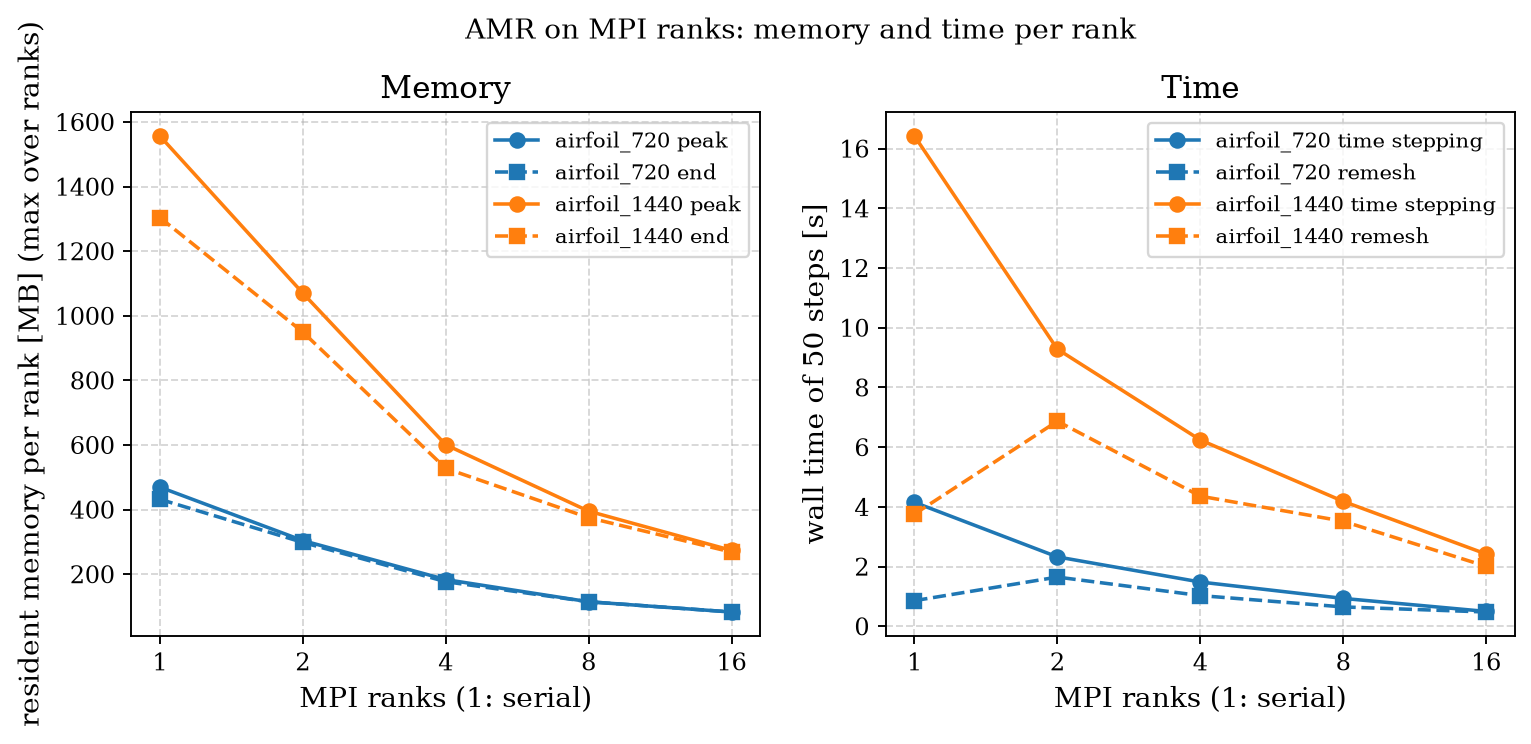
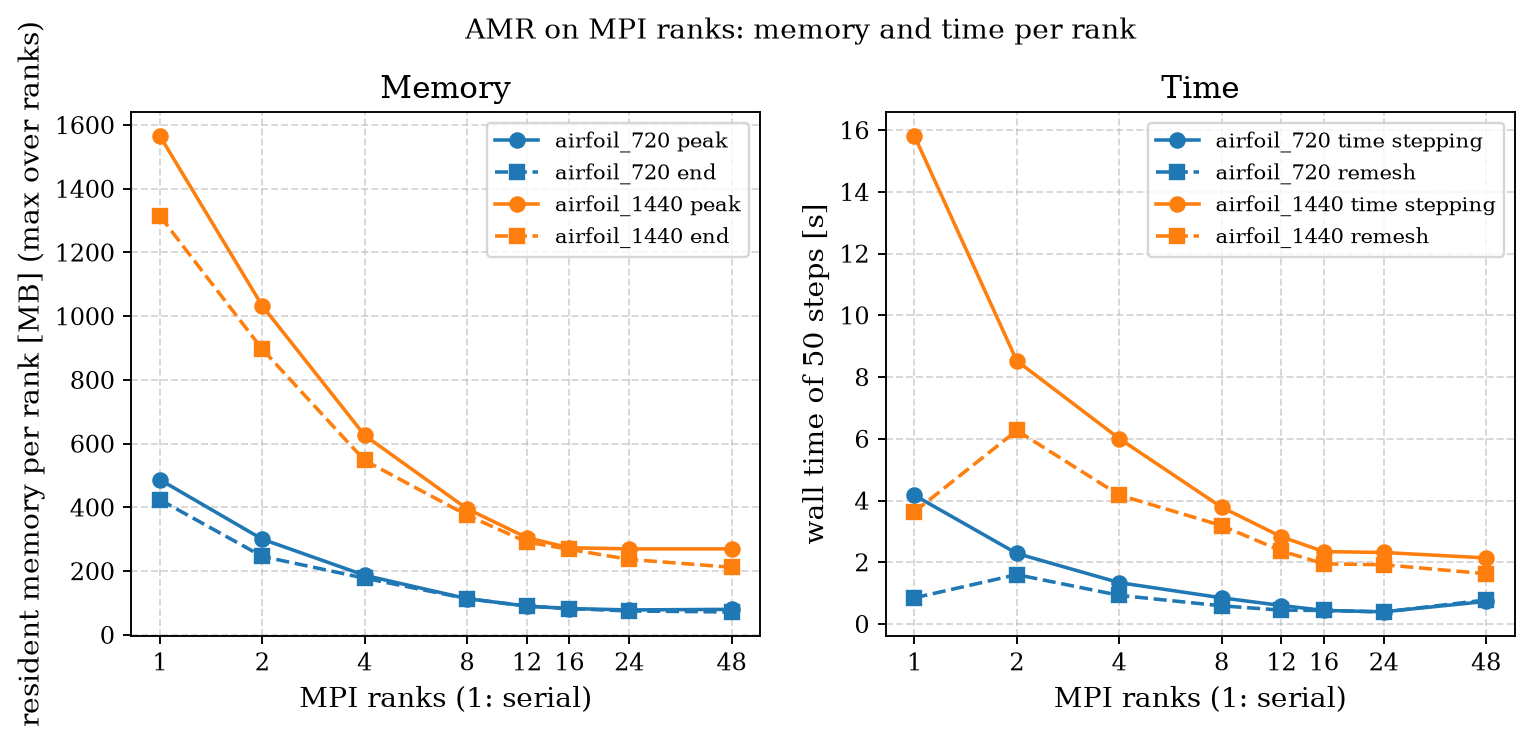
Docs: numbers and figures from the second workstation batch (current sources, 80-cell sphere to t = 60) [skip ci]

diff --git a/docs/source/modules/AMR.md b/docs/source/modules/AMR.md
@@ -38,7 +38,7 @@ parallelises less well, so the comparison that means anything is at **the same f
 | same finest mesh, 16 OpenMP threads | uniform cells | adaptive leaves | adaptive time loop / uniform |
 |---|---:|---:|---:|
 | 2-D airfoil, Re 1000, 2 levels | 4.1 M | 268 k (6.5 %) | 0.07 (**15× faster**) |
-| 3-D sphere, Re 20, 2 levels | 432 k | 76 k (18 %) | 0.26-0.28 (**3.6-3.8× faster**) |
+| 3-D sphere, Re 20, 2 levels | 432 k | 76 k (18 %) | 0.27-0.30 (**3.4-3.7× faster**) |
 
 The same solution costs a fraction of the uniform time, on one thread and on 16, and the fraction shrinks as the levels deepen. The sections below
 describe the engine; the last one measures it.
@@ -79,7 +79,7 @@ Against WENO3-Z on the same adaptive mesh (`cases/validation/amr/weno5_amr.py`, 
 | Shu-Osher, base 200 + 1 level | $L_1$ density error (reference: uniform WENO5-Z, 3200 cells) | 7.38e-2 | 2.99e-2 | 0.40 |
 | cavity Re 400, base 32 + 1 level | RMS of centreline $u$ / $v$ against the tabulated values | 4.23e-3 / 4.40e-3 | 3.65e-3 / 3.53e-3 | 0.86 / 0.80 |
 | cylinder Re 40, 20 finest cells per diameter | $C_d$ (uniform 400×200: 1.9047 / 1.9041) | 1.9424 | 1.8922 | 0.974 |
-| cost per step, 1 thread / 16 threads / 4 ranks | wall time | 61.0 / 11.1 / 20.6 ms | 94.5 / 13.3 / 29.5 ms | 1.55 / 1.19 / 1.44 |
+| cost per step, 1 thread / 16 threads / 4 ranks | wall time | 40.4 / 9.3 / 15.6 ms | 50.8 / 10.3 / 17.8 ms | 1.26 / 1.11 / 1.14 |
 
 The bands fixed before the runs are met (vortex: not above WENO3-Z; the tubes: within 5 % of WENO3-Z and no new over- or undershoot above $10^{-3}$ of the
 jump); the cavity, the cylinder and the cost are reported. The gain is largest where smooth structure is carried through the fine leaves (Shu-Osher) and
@@ -229,7 +229,7 @@ by the owner of the fine leaf.
 * The result is identical to the serial run for any number of ranks (1 to 7 are checked in
 `amr_mpi.py --check`, on cases with remeshing, an immersed body, viscosity, a non-reflecting outlet and a time-dependent source).
 
-**Known limits.** The indicator, the flags and the state of the new leaves are local, each rank builds its share of the mesh and the engine tables directly from the leaves near its own (a wider reach is tried if a face reads what the share lacks), and the first mesh is adapted the same way, so no rank builds the engine of the whole mesh or adapts a mesh with faces (the base mesh itself is constructed once at setup, and every rank keeps the leaves and lookups of the whole topology). No rank holds the topology of the whole mesh: the ranks fetch the leaves around their own from the owners, settle the ripple and the merges between them and migrate the new leaves; same result bit for bit). The memory per rank at the end of the run (the largest over the ranks) falls from 432 MB serial to 298 / 177 / 115 / 83 MB on 2 / 4 / 8 / 16 ranks (peak 470 MB serial, 304 / 183 / 115 / 83 MB), and the wall time of the 720×360 airfoil is 4.9 s serial and 3.8 / 2.4 / 1.5 / 0.95 s (table below); on the 1.06 M-leaf airfoil (1440×720) the memory per rank at the end falls from 1304 MB to 950 / 528 / 375 / 268 MB (peak 1557 MB serial, 1070 / 601 / 395 / 274 MB) and the wall time goes from 20.2 s to 16.2 / 10.6 / 7.7 / 4.4 s; on 24 and 48 ranks the peak stays at 270 MB (the end falls to 237 and 212 MB). The peak is the remesh and the first share. A checkpoint is written by rank 0 as the leaves of each rank reach it, one rank after the other: it holds its own leaves and those of one other rank, never the whole state. The whole mesh is gathered on rank 0 only for the post-processing outputs (probes, samples, averages) and for `dump_state`. On one node
+**Known limits.** The indicator, the flags and the state of the new leaves are local, each rank builds its share of the mesh and the engine tables directly from the leaves near its own (a wider reach is tried if a face reads what the share lacks), and the first mesh is adapted the same way, so no rank builds the engine of the whole mesh or adapts a mesh with faces (the base mesh itself is constructed once at setup, and every rank keeps the leaves and lookups of the whole topology). No rank holds the topology of the whole mesh: the ranks fetch the leaves around their own from the owners, settle the ripple and the merges between them and migrate the new leaves; same result bit for bit). The memory per rank at the end of the run (the largest over the ranks) falls from 424 MB serial to 246 / 178 / 114 / 83 MB on 2 / 4 / 8 / 16 ranks (peak 487 MB serial, 300 / 187 / 114 / 83 MB), and the wall time of the 720×360 airfoil is 5.0 s serial and 3.9 / 2.3 / 1.4 / 0.88 s; on the 1.06 M-leaf airfoil (1440×720) the memory per rank at the end falls from 1315 MB to 897 / 548 / 376 / 268 MB (peak 1566 MB serial, 1033 / 626 / 396 / 273 MB) and the wall time of that memory study (a separate run) goes from 19.5 s to 14.8 / 10.2 / 7.0 / 4.3 s; on 24 and 48 ranks the peak stays at 270 MB (the end falls to 237 and 212 MB). The peak is the remesh and the first share. A checkpoint is written by rank 0 as the leaves of each rank reach it, one rank after the other: it holds its own leaves and those of one other rank, never the whole state. The whole mesh is gathered on rank 0 only for the post-processing outputs (probes, samples, averages) and for `dump_state`. On one node
 OpenMP is the better choice; MPI gives the same result for any rank count and a moderate speed-up. A checkpoint on several ranks is written rank after rank (an `NpzWriter` with reserved entries, zip64 for 4 GB and more), so no rank holds the whole state;
 the final `dump_state` gathers the leaves on rank 0 (a transient copy of the whole state); a restart cuts each rank's share from the leaf list of the checkpoint (three integer arrays) and reads only the state rows of its own leaves and their halo (`NpzFile`), so no rank holds the whole state or mesh; a hot start reads the whole source field.
 At the end of a run the solver prints the resident memory of the ranks (after setup, after the initial adaptation, at the end,
@@ -255,8 +255,8 @@ over uniform cells and time over uniform time for the 2-D airfoil and the 3-D oc
 |---|---:|---:|
 | uniform cells at the finest resolution | 4 147 200 | 432 000 |
 | adaptive leaves at the end | 268 299 (6.5 %) | 76 120 (18 %) |
-| time loop, adaptive / uniform, 1 thread | 5.0 s / 104.6 s: **21× faster** | 0.32-0.38 (steady state): **2.6-3.1× faster** |
-| time loop, adaptive / uniform, 16 threads | 0.9 s / 13.6 s: **15× faster** | 0.26-0.28 (steady state): **3.6-3.8× faster** |
+| time loop, adaptive / uniform, 1 thread | 5.0 s / 104.6 s: **21× faster** | 0.34-0.42 (steady state): **2.4-2.9× faster** |
+| time loop, adaptive / uniform, 16 threads | 0.9 s / 13.6 s: **15× faster** | 0.27-0.30 (steady state): **3.4-3.7× faster** |
 | difference of the result | loads of the fine mesh (see the [airfoil]({{root}}cases/airfoil.html) page) | $C_d$ within 0.02-0.13 % (Re 20 and 100, see the [sphere]({{root}}cases/sphere.html) page) |
 
 Two things make the adaptive solver win by more than the cell count would suggest at first sight, and one limits the gain:
@@ -286,8 +286,8 @@ the uniform solver gains 7.7× on 16 threads and its time stays 15 times higher.
 under 4096 items run on one thread), the remesh scales less than the stepping, and 50 steps are short (the remesh and the setup are a fixed part of them, which a long run
 amortises less than it looks: the remesh stays 17-25 % of the time loop on threads, and 41-49 % on ranks). The remesh of a rank's share costs 0.5-1.6 s against 0.2-0.5 s on threads,
 while the stepping alone scales on ranks as well as on threads, so MPI is for runs that do not fit in the memory of one node, or that go beyond it.
-The larger airfoil (1440×720 base mesh, 1.06 M leaves, 50 steps) takes 20.2 s serial, 3.7 s on 16 threads (5.5×) and 4.4 s on 16 ranks (4.5×), and its best time on MPI is 3.9 s on 48 ranks (5.1×);
-with WENO5-Z the same run takes 67.0 s serial and 6.0 s on 48 ranks (11.2×), and the remesh is a smaller share of it (30 % against 44 % for MUSCL on 48 ranks). The scaling over 1 to 48 workers of this and
+The larger airfoil (1440×720 base mesh, 1.06 M leaves, 50 steps) takes 19.2 s serial, 3.5 s on 16 threads (5.5×) and 4.3 s on 16 ranks (4.5×), and its best time on MPI is 3.7 s on 48 ranks (5.2×);
+with WENO5-Z the same run takes 37.5 s serial and 4.9 s on 48 ranks (7.7×), and the remesh is a smaller share of it (34 % against 43 % for MUSCL on 48 ranks). The scaling over 1 to 48 workers of this and
 of the other adaptive and uniform cases is on the [Performance]({{root}}guide/performance.html#scaling-on-a-24-core-workstation) page.
 
 <figure style="margin:1em 0;">
@@ -298,9 +298,9 @@ for the time stepping alone and with the remesh. Right: time of the uniform solv
 same finest mesh over the time of the adaptive run, on the same number of threads. Every final state is bit for bit the serial one.</figcaption>
 </figure>
 
-The 3-D sphere (octree, 76 k leaves, Re 20, 200 steps from the steady state) takes 30.5 s per unit of physical time on one thread and 9.5 / 7.1 / 4.9 s on 4 / 8 / 16 threads
-(6.2× on 16, no further gain on 24 and 48: 4.9 s); on MPI ranks 18.9 / 11.3 / 7.4 / 5.1 / 4.9 s on 2 / 4 / 8 / 24 / 48 ranks, with the remesh at 7 / 11 / 16 / 30 / 39 % of the time.
-Memory is 109 MB at the end (142 MB at the peak) in the process of 16 threads; per rank 63 MB (peak 78 MB) on 8 ranks, 60 MB (76 MB) on 24 and 65 MB (76 MB) on 48.
+The 3-D sphere (octree, 76 k leaves, Re 20, 200 steps from the steady state) takes 29.6 s per unit of physical time on one thread and 9.4 / 7.1 / 4.9 s on 4 / 8 / 16 threads
+(6.0× on 16, no further gain on 24 and 48: 4.9 and 4.8 s); on MPI ranks 19.2 / 11.7 / 7.5 / 5.0 / 5.1 s on 2 / 4 / 8 / 24 / 48 ranks, with the remesh at 8 / 11 / 16 / 30 / 38 % of the time.
+Memory is 111 MB at the end (142 MB at the peak) in the process of 16 threads; per rank 63 MB (peak 77 MB) on 8 ranks, 59 MB (76 MB) on 24 and 65 MB (76 MB) on 48.
 
 <figure style="margin:1em 0;">
 <img src="{{root}}img/amr_memory.png" style="width:100%">

diff --git a/docs/source/guide/performance.md b/docs/source/guide/performance.md
@@ -90,23 +90,21 @@ identical to the serial one (see [MPIDecomposition]({{root}}modules/MPIDecomposi
 
 ## Cost of the reconstructions
 
-These runs were made before the vector and fused WENO kernels above; those kernels give the same bits and are faster, so the WENO rows are upper bounds.
-
 Wall time of the whole run on the 24-core workstation of the next section (gcc, OpenMP, one process, 44 threads), cases as in the validation studies: the 2-D isentropic vortex
 over one period (`nx = ny = 256`, 65 536 cells) and the 3-D Taylor-Green vortex at Re 1600 on $64^3$ to $t = 20$.
 MUSCL uses the MC limiter with SSP-RK2, the WENO schemes SSP-RK3, CFL 0.5.
 
 | Case | scheme | 1 thread | 44 threads | 44 threads vs 1 | $L_2$ density error / peak $\varepsilon$ |
 |---|---|---:|---:|---:|---|
-| vortex $256^2$ | MUSCL (MC) | 20.8 s | 2.3 s | 9.1× | $6.4\cdot10^{-5}$ |
-| vortex $256^2$ | `weno3` | 69.5 s | 10.2 s | 6.8× | $4.8\cdot10^{-5}$ |
-| vortex $256^2$ | `weno5` | 123.7 s | 31.1 s | 4.0× | $2.1\cdot10^{-6}$ |
-| Taylor-Green $64^3$ | MUSCL (MC) | 424 s | 90 s | 4.7× | 0.01133 |
-| Taylor-Green $64^3$ | `weno3` | 1036 s | 194 s | 5.3× | 0.01091 |
-| Taylor-Green $64^3$ | `weno5` | 1641 s | 218 s | 7.5× | 0.01267 |
+| vortex $256^2$ | MUSCL (MC) | 21.4 s | 2.6 s | 8.4× | $6.4\cdot10^{-5}$ |
+| vortex $256^2$ | `weno3` | 45.3 s | 4.5 s | 10.0× | $4.8\cdot10^{-5}$ |
+| vortex $256^2$ | `weno5` | 64.0 s | 6.0 s | 10.6× | $2.1\cdot10^{-6}$ |
+| Taylor-Green $64^3$ | MUSCL (MC) | 470 s | 101 s | 4.7× | 0.01133 |
+| Taylor-Green $64^3$ | `weno3` | 834 s | 155 s | 5.4× | 0.01091 |
+| Taylor-Green $64^3$ | `weno5` | 1053 s | 188 s | 5.6× | 0.01267 |
 
-`weno3` costs about 2.4 to 3.3 times and `weno5` about 4 to 6 times the MUSCL run on one thread (the 2-D mesh is small, and `weno5` scales least on it). The error is what the extra cost buys: on the smooth vortex `weno5` reaches at
-$128^2$ (15.4 s on one thread) an error below that of MUSCL at $256^2$ (20.8 s), so for a given error it is the cheaper scheme there;
+`weno3` costs about 1.8 to 2.1 times and `weno5` about 2.2 to 3.0 times the MUSCL run on one thread (on the 2-D mesh of 65 536 cells the three schemes gain 8 to 11 times on 44 threads, on the 3-D mesh 4.7 to 5.6 times). The error is what the extra cost buys: on the smooth vortex `weno5` reaches at
+$128^2$ (8.1 s on one thread) an error below that of MUSCL at $256^2$ (21.4 s), so for a given error it is the cheaper scheme there;
 the Taylor-Green reference peak is 0.0127. The thread count never changes the result: all runs above are bitwise equal on 1 and 44 threads.
 
 ## Scaling on a 24-core workstation
@@ -121,28 +119,28 @@ physical cores up to 24, and the counts above 24 use both hardware threads of a 
 
 | Case | 1 rank | best MPI | best OpenMP | best ranks x threads |
 |---|---:|---:|---:|---:|
-| uniform 2-D MUSCL $4096^2$ | 81.2 s | 9.7x (48 ranks) | 8.9x (48 threads) | 10.9x (8 x 6) |
-| uniform 2-D `weno3` $2048^2$ | 57.1 s | 7.7x (48 ranks) | 7.7x (48 threads) | 8.3x (8 x 6) |
-| uniform 3-D MUSCL $256^3$ | 58.0 s | 6.9x (24 ranks) | 5.0x (48 threads) | 8.1x (12 x 4) |
-| AMR airfoil, MUSCL | 20.1 s | 5.1x (48 ranks) | 5.5x (16 threads) | 4.8x (24 x 2) |
-| AMR airfoil, `weno5` | 67.0 s | 11.2x (48 ranks) | 10.6x (48 threads) | 10.3x (24 x 2) |
-| AMR octree sphere | 4.75 s | 2.5x (16 ranks) | 4.1x (24 threads) | 1.9x (12 x 2) |
+| uniform 2-D MUSCL $4096^2$ | 89.1 s | 10.1x (48 ranks) | 9.6x (48 threads) | 11.8x (6 x 8) |
+| uniform 2-D `weno3` $2048^2$ | 42.7 s | 10.8x (48 ranks) | 11.3x (48 threads) | 12.3x (4 x 12) |
+| uniform 3-D MUSCL $256^3$ | 55.6 s | 7.3x (16 ranks) | 5.4x (16 threads) | 8.1x (12 x 4) |
+| AMR airfoil, MUSCL | 19.2 s | 5.2x (48 ranks) | 5.5x (48 threads) | 4.8x (24 x 2) |
+| AMR airfoil, `weno5` | 37.5 s | 7.7x (48 ranks) | 7.4x (48 threads) | 7.1x (24 x 2) |
+| AMR octree sphere | 4.54 s | 2.5x (16 ranks) | 3.9x (16 threads) | 1.9x (12 x 2) |
 
 <figure>
 <img src="{{root}}img/workstation_scaling.png" alt="Strong scaling on MPI ranks, OpenMP threads and ranks x threads">
 <figcaption>Speed-up (top) and parallel efficiency (bottom) of the six cases on MPI ranks, OpenMP threads and ranks x threads (triangles, at the number of ranks). The grey band marks the counts above the 24 physical cores.</figcaption>
 </figure>
 
-* **The uniform cases stop at 7 to 11 times the single-core speed**, whatever the mix of ranks and threads, and gain little past 16 to 24 workers: the same ceiling for MPI and OpenMP,
-  as expected of passes over the whole array that are limited by the memory of the node. The hybrid runs (8 ranks of 6 threads, 12 of 4) are 7 to 17 % faster than the best pure mode on the uniform meshes.
-* **MPI against OpenMP** is close on the uniform cases (ranks ahead on the 3-D mesh, 6.9x against 5.0x). On the adaptive meshes OpenMP is ahead up to 16 workers, and the remesh grows with the ranks:
-  on the octree sphere 16 ranks take 1.87 s with 1.28 s in the remesh, 48 ranks take 3.1 s with 2.6 s in it, and 24 threads take 1.16 s. Use MPI to go beyond one node; on one node prefer threads, or a few ranks of several threads.
-* **`weno5` scales better than MUSCL** (11.2x against 5.1x on the AMR airfoil): the larger arithmetic cost per cell hides the memory traffic and the remesh.
+* **The uniform cases stop at 7 to 12 times the single-core speed**, whatever the mix of ranks and threads, and gain little past 16 to 24 workers: the same ceiling for MPI and OpenMP,
+  as expected of passes over the whole array that are limited by the memory of the node. The hybrid runs (6 ranks of 8 threads, 4 of 12, 12 of 4) are 8 to 17 % faster than the best pure mode on the uniform meshes.
+* **MPI against OpenMP** is close on the uniform cases (ranks ahead on the 3-D mesh, 7.3x against 5.4x on 16 workers). On the adaptive meshes OpenMP is ahead up to 16 workers, and the remesh grows with the ranks:
+  on the octree sphere 16 ranks take 1.79 s with 1.23 s in the remesh, 48 ranks take 2.9 s with 2.4 s in it, and 16 threads take 1.16 s. Use MPI to go beyond one node; on one node prefer threads, or a few ranks of several threads.
+* **`weno5` scales better than MUSCL on the adaptive airfoil** (7.7x against 5.2x on 48 ranks): the larger arithmetic cost per cell hides part of the remesh (34 % of the time loop against 43 % for MUSCL on 48 ranks). On the uniform meshes the schemes differ little (10.1x for MUSCL and 10.8x for `weno3` on 48 ranks).
 * A mesh of a few thousand cells gains nothing from threads: loops under 4096 items run on one thread, so the fork/join of a longer loop would cost more than the work; MPI strips or one thread suit such cases.
 * The results are bitwise equal for every rank and thread count; only the time changes.
 
-The weak scaling keeps $1024\times512$ cells per rank (viscous Taylor-Green vortex, MUSCL, 40 steps): the time grows from 2.7 s on one rank to 3.5 s on 4, 5.6 s on 16 and 12.3 s on 48, an efficiency of 0.77, 0.49 and 0.22;
-threads give 0.77, 0.49 and 0.19.
+The weak scaling keeps $1024\times512$ cells per rank (viscous Taylor-Green vortex, MUSCL, 40 steps): the time grows from 2.6 s on one rank to 3.4 s on 4, 4.7 s on 16 and 11.6 s on 48, an efficiency of 0.78, 0.55 and 0.23;
+threads give 0.78, 0.53 and 0.20.
 
 <figure>
 <img src="{{root}}img/workstation_weak_scaling.png" alt="Weak scaling efficiency on MPI ranks and OpenMP threads">

diff --git a/docs/source/cases/sphere.md b/docs/source/cases/sphere.md
@@ -17,6 +17,7 @@ between two meshes.
 
 ```powershell
 python cases\validation\features\ibm_sphere.py --docs      # 10 and 20 cells per diameter
+python cases\validation\amr\octree_q8.py long              # 80 cells per diameter on the octree, to t = 60 (hours)
 ```
 
 The study writes its own case file (`results/validation/ibm_sphere/`). The showcase case `cases/ibm_sphere` (`fenice --case "IBM Sphere"`, also in the GUI) is the Re = 100 flow on the octree, 20 cells per diameter, snapshots every 0.5.
@@ -38,6 +39,23 @@ steady and symmetric.</figcaption>
 * The drag still moves upward with refinement, by 1.5 %. Two meshes are not a convergence proof: a third mesh would be needed to
   say where it is going. The study's band (a change of at most 3 %) is a regression guard set after the run.
 * The serial and distributed runs of the sphere agree bit for bit (`ibm_ghost.py --check`, 2 to 7 ranks).
+
+### Finer meshes on the octree
+
+The octree reaches finest cell sizes that the uniform solver cannot afford here (80 cells per diameter would be 28 million cells). Workstation, Re 20 (the 80-cell run on 48 threads):
+
+| finest cells / D | base, levels | leaves at the end | run to | $C_d$ at $t = 30$ | time loop |
+|---:|---|---:|---:|---:|---:|
+| 20 | 5, 2 | 76 120 | 30 | 3.5124 | 870 s |
+| 40 | 10, 2 | 283 544 | 30 | 3.5456 | 10 980 s |
+| 80 | 10, 3 | 913 236 | 60 | 3.5598 | 28 761 s (66 085 steps) |
+
+The 80-cell run was continued to $t = 60$, where $C_d = 3.5517$; its peak memory is 1.9 GB.
+
+* Over the three meshes at $t = 30$ the observed order is 1.23, far from the formal 2, so $F_s = 3$: fine-grid GCI 0.9 %, extrapolated $C_d$ 3.570.
+* The finest run is **not settled at $t = 30$**: its drag falls by 0.0027 (0.08 %) every 10 time units, 3.5598 at $t = 30$, 3.5571 at 40, 3.5544 at 50 and 3.5517 at 60, with no sign of slowing,
+  so the 0.23 % between $t = 30$ and $t = 60$ is as large as the GCI above. The two coarser runs stop at $t = 30$ and may drift in the same way, so the
+  extrapolated value is indicative; a longer run would be needed to say where the drag at 80 cells per diameter settles.
 
 On the adaptive octree (`cases/validation/amr/octree_q8.py`) the same sphere at an equal finest resolution of 20 cells per diameter gives $C_d$ within about 0.1 % of the uniform solver (Re 20 and 100), in 0.3-0.5 of the time (whole runs on 16 threads) and with 76 k leaves against 432 k cells; see [AMR]({{root}}modules/AMR.html).
 

diff --git a/docs/source/cases/manufactured-solution.md b/docs/source/cases/manufactured-solution.md
@@ -388,11 +388,12 @@ of the uniform base mesh.
   error made at the seam from the error transported), and WENO3-Z shows it more than MUSCL because its own smooth error is smaller.
   After the first run the ratio to the uniform base mesh was made a reported column and not a failure of the study; the decision was
   taken after the result. Tables: `results/validation/mms_amr_weno/mms_amr_weno.md` and `mms_amr_weno_regions.md`.
-* **WENO5-Z** (six cells where they are leaves of the face's level, the WENO3-Z stencil at the seam; grids 16→32→64). $L_2$ orders
-  1.84, 1.71 (Navier-Stokes) and 1.97, 1.99 (Euler); $L_\infty$ 1.75, 1.13 (Euler) and 1.48, **0.68** (Navier-Stokes, pressure), below
-  its band on these grids already: the smooth error is smaller, so the seam shows in the maximum one grid earlier than for the other two
-  schemes. The finest $L_2$ density error is $6.3\cdot10^{-4}$ against $8.1\cdot10^{-4}$ for WENO3-Z on the same mesh, and about three
-  times that of the uniform WENO5-Z run on $n$ cells. The row is kept with a floor of 0.5 (decided after the result; the band is not moved).
+* **WENO5-Z** (six cells where they are leaves of the face's level, the WENO3-Z stencil at the seam; grids 16→32→64→128). $L_2$ orders
+  1.84, 1.71, **1.26** (Navier-Stokes) and 1.86, 2.11, 1.56 (Euler); $L_\infty$ 1.25, 1.17, **0.72** (Navier-Stokes, density) and 0.68, 1.19,
+  **0.59** (Euler, velocity). The $L_2$ order of the finest pair of the Navier-Stokes solution is below its band, and the $L_\infty$ orders are below
+  theirs on the finest pair: the smooth error is smaller, so the seam shows in the maximum earlier than for the other two schemes. The finest $L_2$
+  density error is $2.6\cdot10^{-4}$ against $2.8\cdot10^{-4}$ for WENO3-Z and for MUSCL on the same mesh, so the fifth-order stencil buys nothing there, and
+  3 to 5 times that of the uniform WENO5-Z run on $n$ cells. The $L_\infty$ rows are kept with a floor of 0.5 (decided after the result; the band is not moved).
 
 ## WENO-Z reconstruction on the periodic cases
 

diff --git a/docs/source/guide/validation.md b/docs/source/guide/validation.md
@@ -54,7 +54,7 @@ accuracy are measured, not estimated.
 | `stress_shocks.py` | strong-shock robustness: pressure ratio 1000, vacuum, Mach 10-100, Mach 10 cylinder, odd-even test, also with `flux_quadrature = fourth` ([page]({{root}}guide/studies.html)) |
 | `mms_weno.py` | the periodic manufactured solutions (Euler 2-D, Navier-Stokes 2-D / 3-D) with WENO3-Z and WENO5-Z: observed orders, bands fixed beforehand, WENO3-Z reported above the band ([page]({{root}}cases/manufactured-solution.html)) |
 | `mms_time_weno.py` | time order of the unsteady manufactured solution with WENO3-Z and WENO5-Z (SSP-RK3); the default-epsilon WENO5-Z row is reported, not banded ([page]({{root}}cases/manufactured-solution.html)) |
-| `mms_amr_weno.py` | periodic manufactured solutions on an adaptive mesh with a static refined square (interior level jumps and corners), WENO3-Z, WENO5-Z and MUSCL; `--full` adds the grid 128, where the $L_\infty$ order falls below its band ([page]({{root}}cases/manufactured-solution.html)) |
+| `mms_amr_weno.py` | periodic manufactured solutions on an adaptive mesh with a static refined square (interior level jumps and corners), WENO3-Z, WENO5-Z and MUSCL; `--full` adds the grid 128, where most of the $L_\infty$ orders and the WENO5-Z $L_2$ order of the Navier-Stokes solution fall below their bands ([page]({{root}}cases/manufactured-solution.html)) |
 | `mms_boundary.py` | order of the manufactured solutions with walls / outflow (Euler and Navier-Stokes) per reconstruction, with `--boundary-order 1` or 2; the tables are committed next to it ([page]({{root}}cases/manufactured-solution.html)) |
 | `mms_amr_boundary.py` | the same solutions on an adaptive mesh with a static refined region (`amr_force_box`) whose seams meet the walls, boundary orders 1 and 2 ([page]({{root}}cases/manufactured-solution.html)); the table is committed next to it |
 | `ibm_wedge.py` | Mach 2 flow along a 10 degree wedge against the exact oblique shock (order 3.6), and the curvature variant on a flat wall ([page]({{root}}modules/Physics.html)) |

diff --git a/README.md b/README.md
@@ -161,7 +161,7 @@ conditions, so adding a case needs no C++ and no recompilation. The shipped case
 
 Adaptive mesh refinement is judged by the time to a given error, not by the cost per step. On the
 airfoil, AMR on a 192×96 base mesh with two levels reaches the loads of the 768×384 uniform mesh (8 % of its
-cells) in 7 s against 190 s on 16 OpenMP threads, and it beats the uniform 384×192 mesh in both time and error
+cells) in 13.6 s against 200 s on the workstation, and it beats the uniform 384×192 mesh in both time and error
 (one run each, an impulsive start rather than a steady flow; see the
 [airfoil page](docs/source/cases/airfoil.md)).
 
